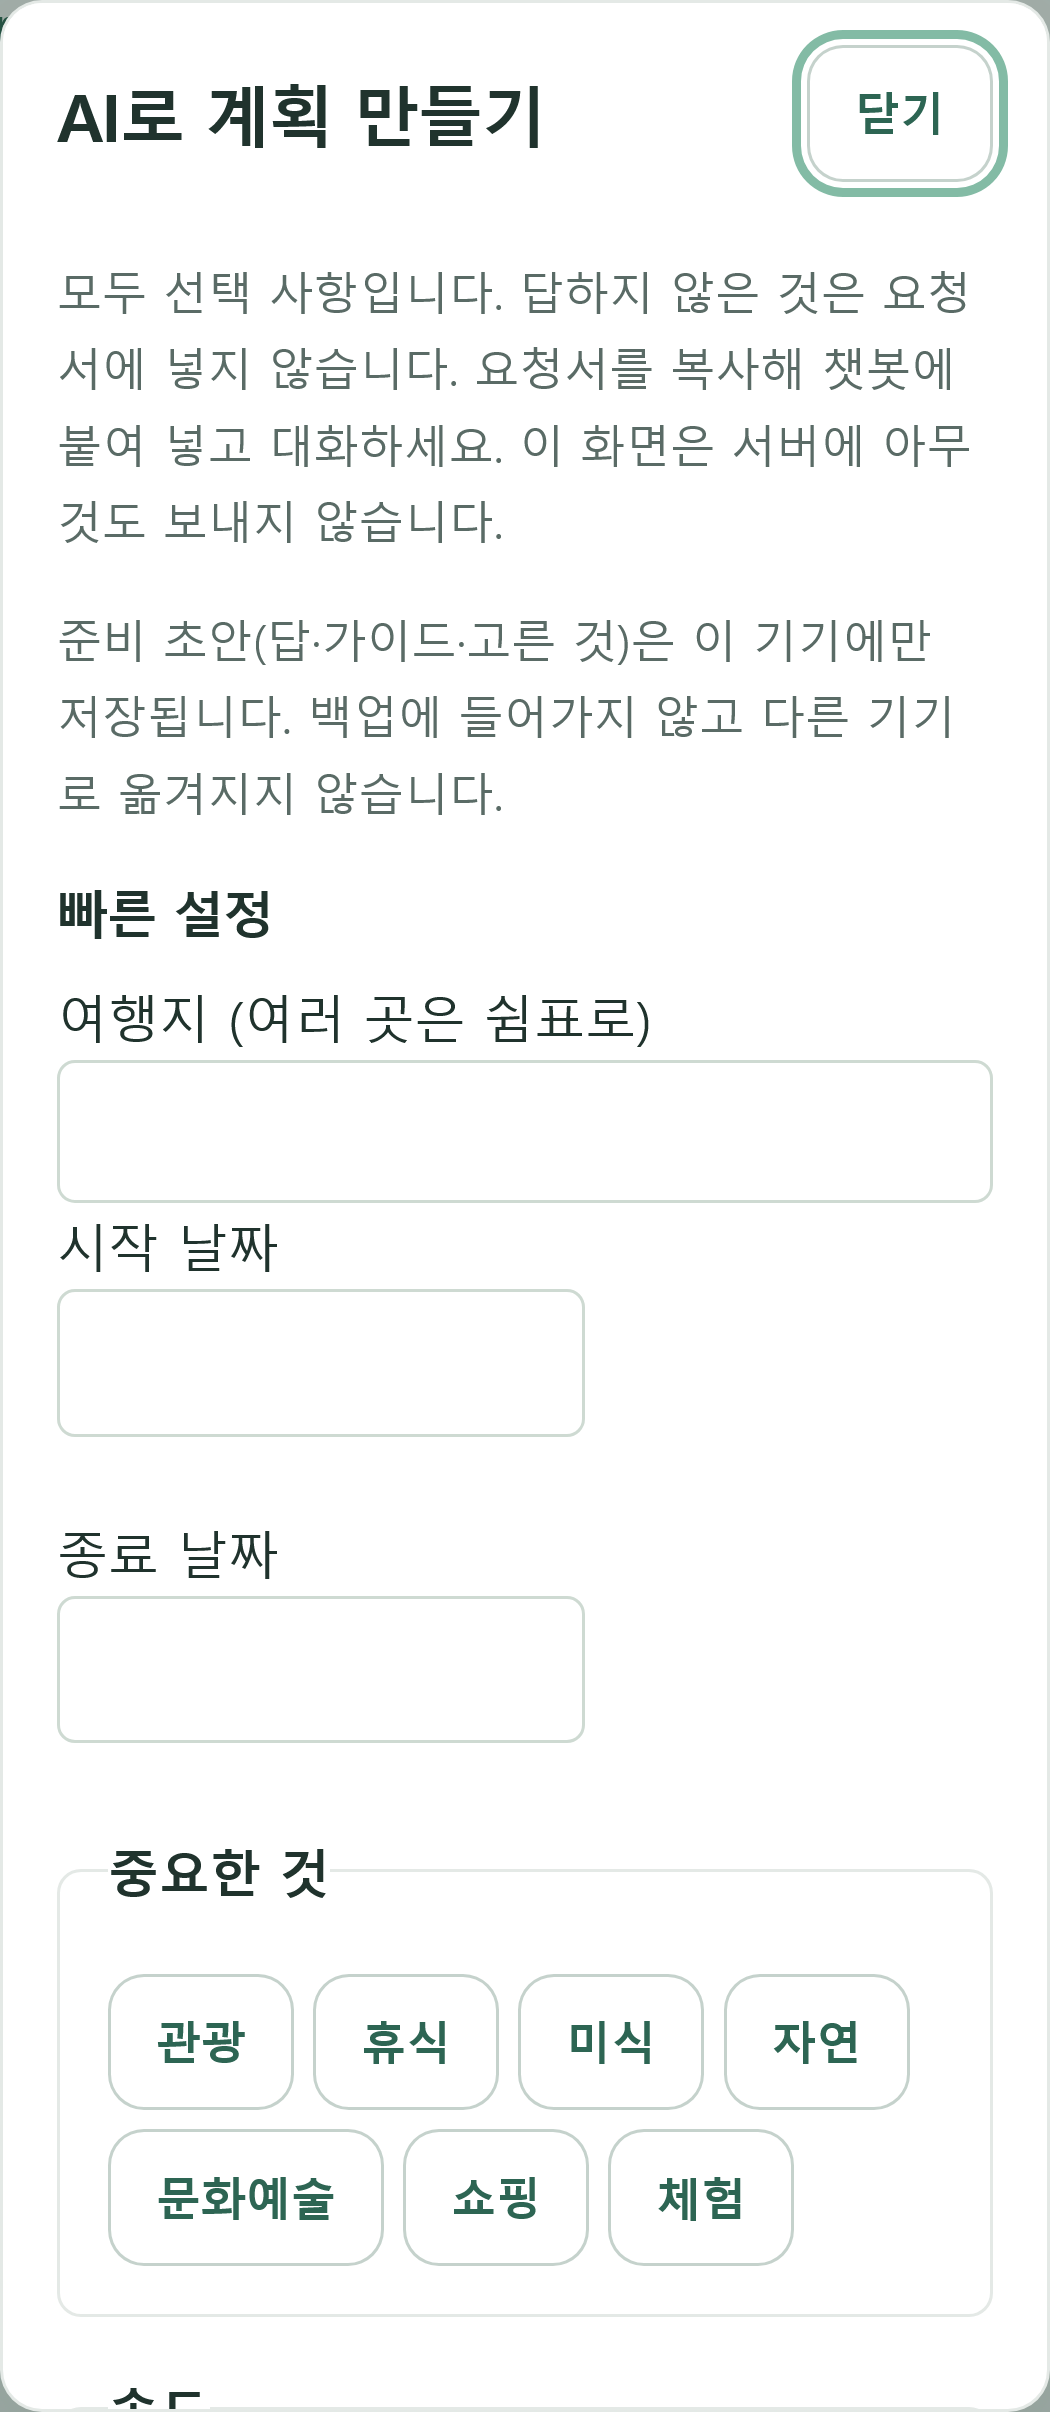
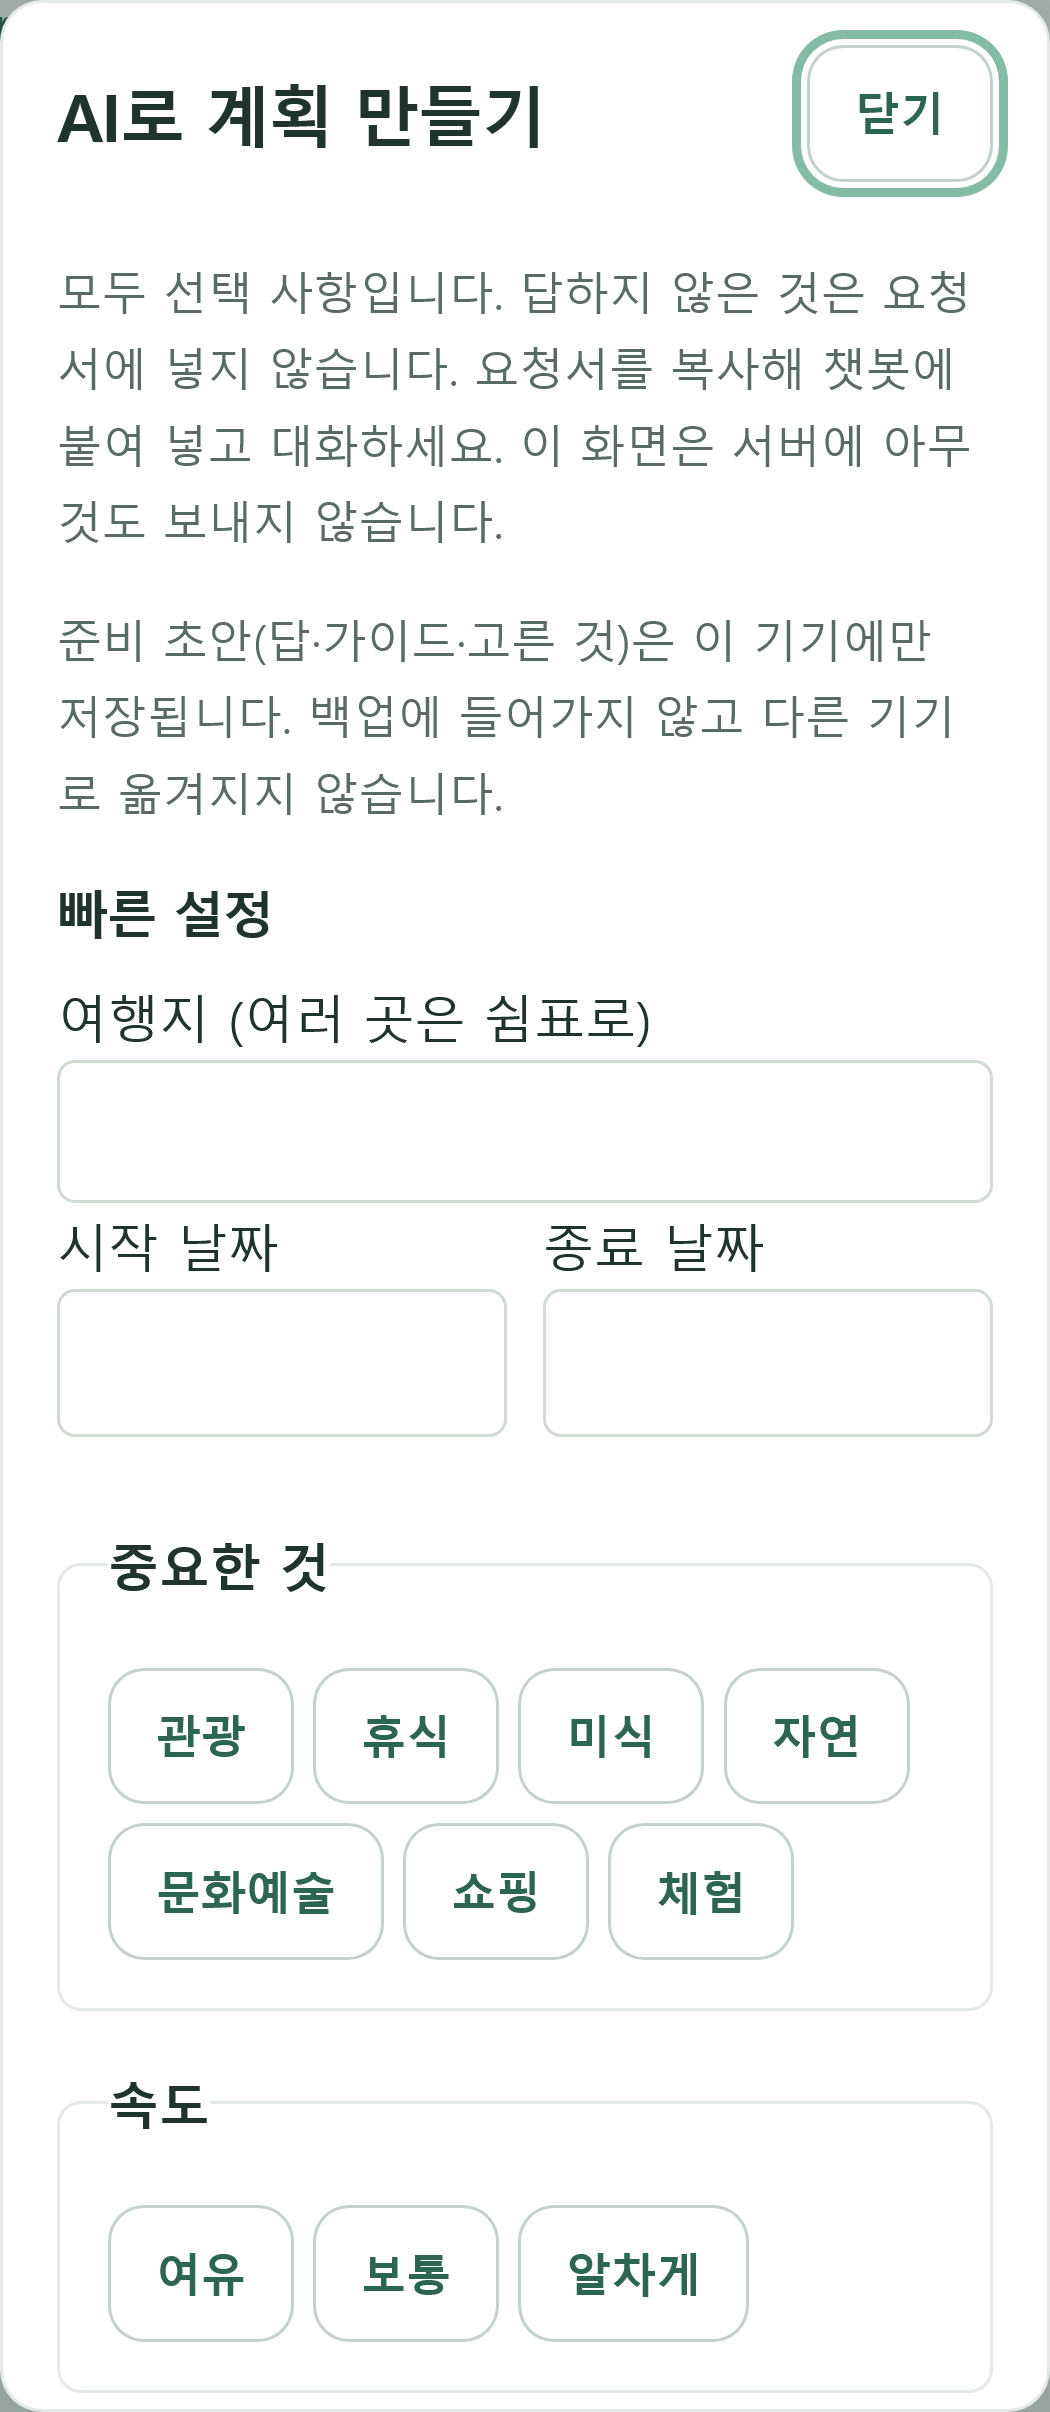
fix(T-P1 R3-1): keep date fields on one row at 360px+, WebKit assertion

diff --git a/src/content/content.css b/src/content/content.css
@@ -717,11 +717,16 @@ dialog th {
   }
 }
 
-/* 시작·종료 날짜: 두 칸이 들어가면 나란히, 안 들어가면 두 줄로 내린다. iOS의 날짜 입력은 고유 최소 폭이 있어 줄어들게 한다 */
+/* 시작·종료 날짜: 칸 폭을 나눠 갖고 줄어들며 한 줄을 유지한다(약 340px 이하에서만 두 줄). iOS의 날짜 입력은 고유 최소 폭이 있어 줄어들게 한다 */
 .date-row {
   display: grid;
-  grid-template-columns: repeat(auto-fit, minmax(min(100%, 9.5rem), 11rem));
+  grid-template-columns: repeat(2, minmax(0, 11rem));
   gap: 0.75rem;
+}
+@media (max-width: 340px) {
+  .date-row {
+    grid-template-columns: minmax(0, 1fr);
+  }
 }
 .date-row label {
   min-width: 0;

diff --git a/tests/e2e/date-row-webkit.spec.ts b/tests/e2e/date-row-webkit.spec.ts
@@ -29,6 +29,9 @@ for (const width of [390, 360, 320]) {
     const overlapsHorizontally = startBox!.x < endBox!.x + endBox!.width && endBox!.x < startBox!.x + startBox!.width;
     const overlapsVertically = startBox!.y < endBox!.y + endBox!.height && endBox!.y < startBox!.y + startBox!.height;
     expect(overlapsHorizontally && overlapsVertically).toBe(false);
+    if (width >= 360) {
+      expect(Math.abs(startBox!.y - endBox!.y)).toBeLessThan(2);
+    }
     if (CAPTURE && width === 390) {
       await dialog.screenshot({ path: CAPTURE });
     }

diff --git a/docs/claude-task-p01-result.md b/docs/claude-task-p01-result.md
@@ -182,3 +182,13 @@ PC(`desktop-*`)·iPhone 폭(`mobile-*`, Playwright mobile 프로젝트 뷰포트
 - 캡처: [iphone-webkit-390-date-row.png](p01-r3-screens/iphone-webkit-390-date-row.png) — 390px에서 두 칸이 위아래 두 줄로 놓인다.
 - **한계(중요)**: 수정 전 CSS로도 이 시험이 통과했다. Windows의 Playwright WebKit은 실기기 iOS Safari의 날짜 입력 고유 폭을 재현하지 못한다. 이 시험은 "겹치지 않는다"는 회귀 방지용이며 **실기기에서 고쳐졌다는 증거가 아니다.** iPhone 실기기 확인이 필요하다.
 - 미실행: 전체 `test:e2e`, iPhone 실기기.
+
+## R3-1 (2026-11-18)
+
+- 상태: R3에서 390px가 두 줄이 되어 기존 시험 R2-3이 CI에서 실패했다. Claude가 전체 E2E를 돌리지 않은 탓이다.
+- 수정: `.date-row`를 `repeat(2, minmax(0, 11rem))`로 되돌려 두 칸이 폭을 나눠 갖게 했다. input의 `min-width: 0`·`width: 100%`·`appearance: none`은 유지했다. 두 줄은 `max-width: 340px`에서만이다.
+- 시험: 기존 R2-3은 고치지 않았다. WebKit 시험에 "360px 이상이면 두 칸 y 차이 2px 미만(한 줄)" 단언을 더했다. 320px는 한 줄·두 줄 모두 허용하되 겹치거나 넘치지 않는다.
+- E2E(빌드 후 `guide-select`·`plan-brief`·`date-row-webkit`, desktop·mobile·webkit-iphone): 35건 모두 통과. 주의: 미리보기는 `dist`를 쓰므로 CSS를 고친 뒤 `pnpm run build`를 하지 않으면 옛 결과가 나온다(처음 두 번이 그랬다).
+- 캡처: `docs/p01-r3-screens/iphone-webkit-390-date-row.png` 갱신(한 줄).
+- 미검증: 실기기 iPhone의 겹침. 자동 시험으로 알 수 없으며 사용자 확인이 판정 기준이다. 병합 뒤에도 겹치면 "항상 두 줄"로 바꾸는 것을 사용자에게 묻는다.
+- 데이터 경계(`src/contracts`·`src/storage`·`src/transfer`·`src/repository.ts`) 변경 0건.
